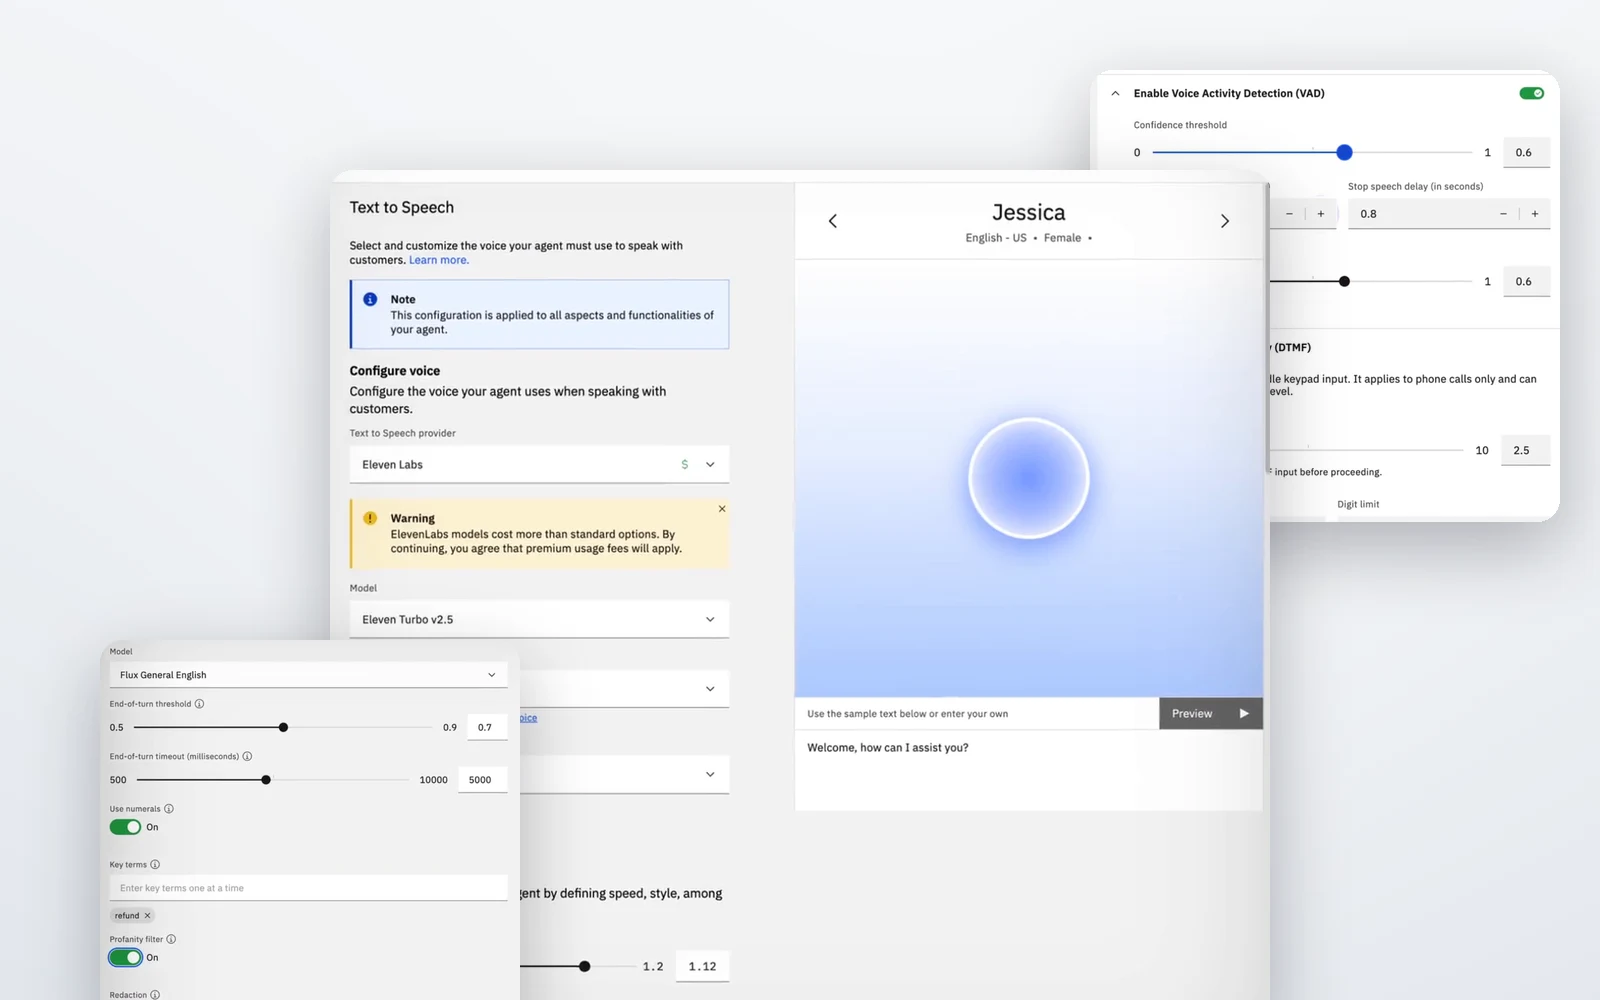
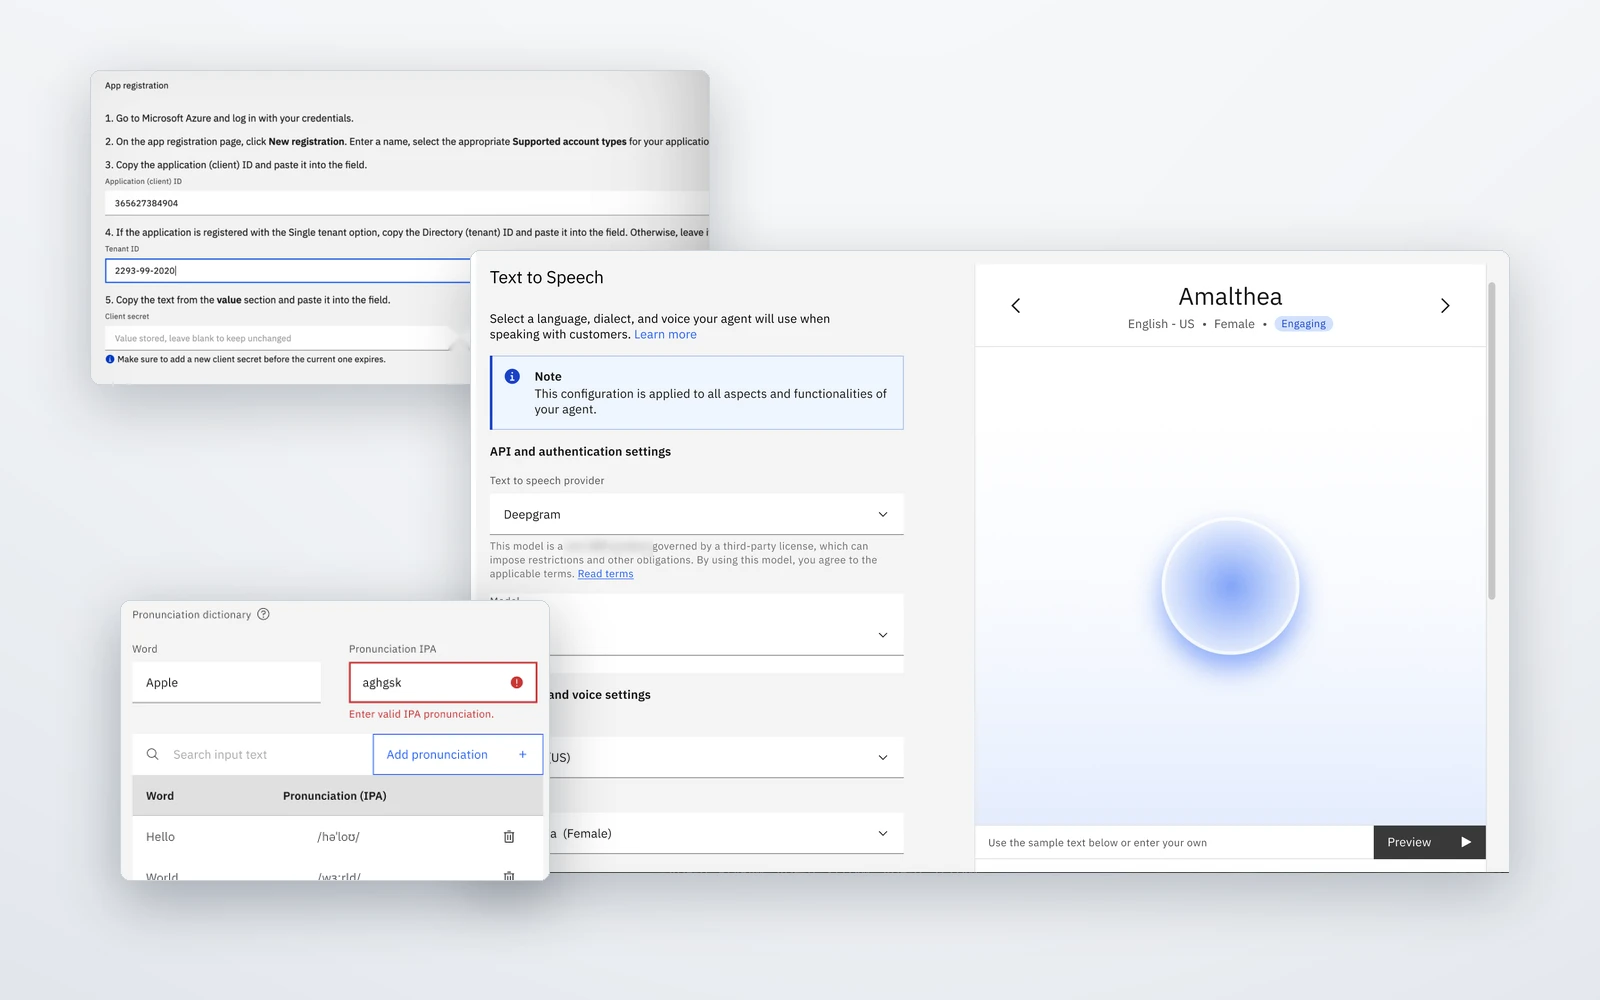
Hero: channels, voice and error handling in one image
Claude-Session: https://claude.ai/code/session_01UmP9qHzuU9R7aREPUQetXT

diff --git a/src/content.ts b/src/content.ts
@@ -255,7 +255,7 @@ export const projects: Project[] = [
     size: 'large',
     cover: {
       src: '/images/cover-ibm.webp',
-      alt: 'Layered screens from the voice configuration flow: Text to speech with ElevenLabs selected, a cost warning and the voice preview in front of Advanced settings, with Speech to text (Flux model, turn-taking sliders, a key term and filters) on top.',
+      alt: 'Layered screens from the project: Microsoft Teams app registration at the back, the Text to speech step with Deepgram and the voice preview in the middle, and a pronunciation dictionary error (Enter valid IPA pronunciation) in front.',
       width: 1600,
       height: 1000,
     },
